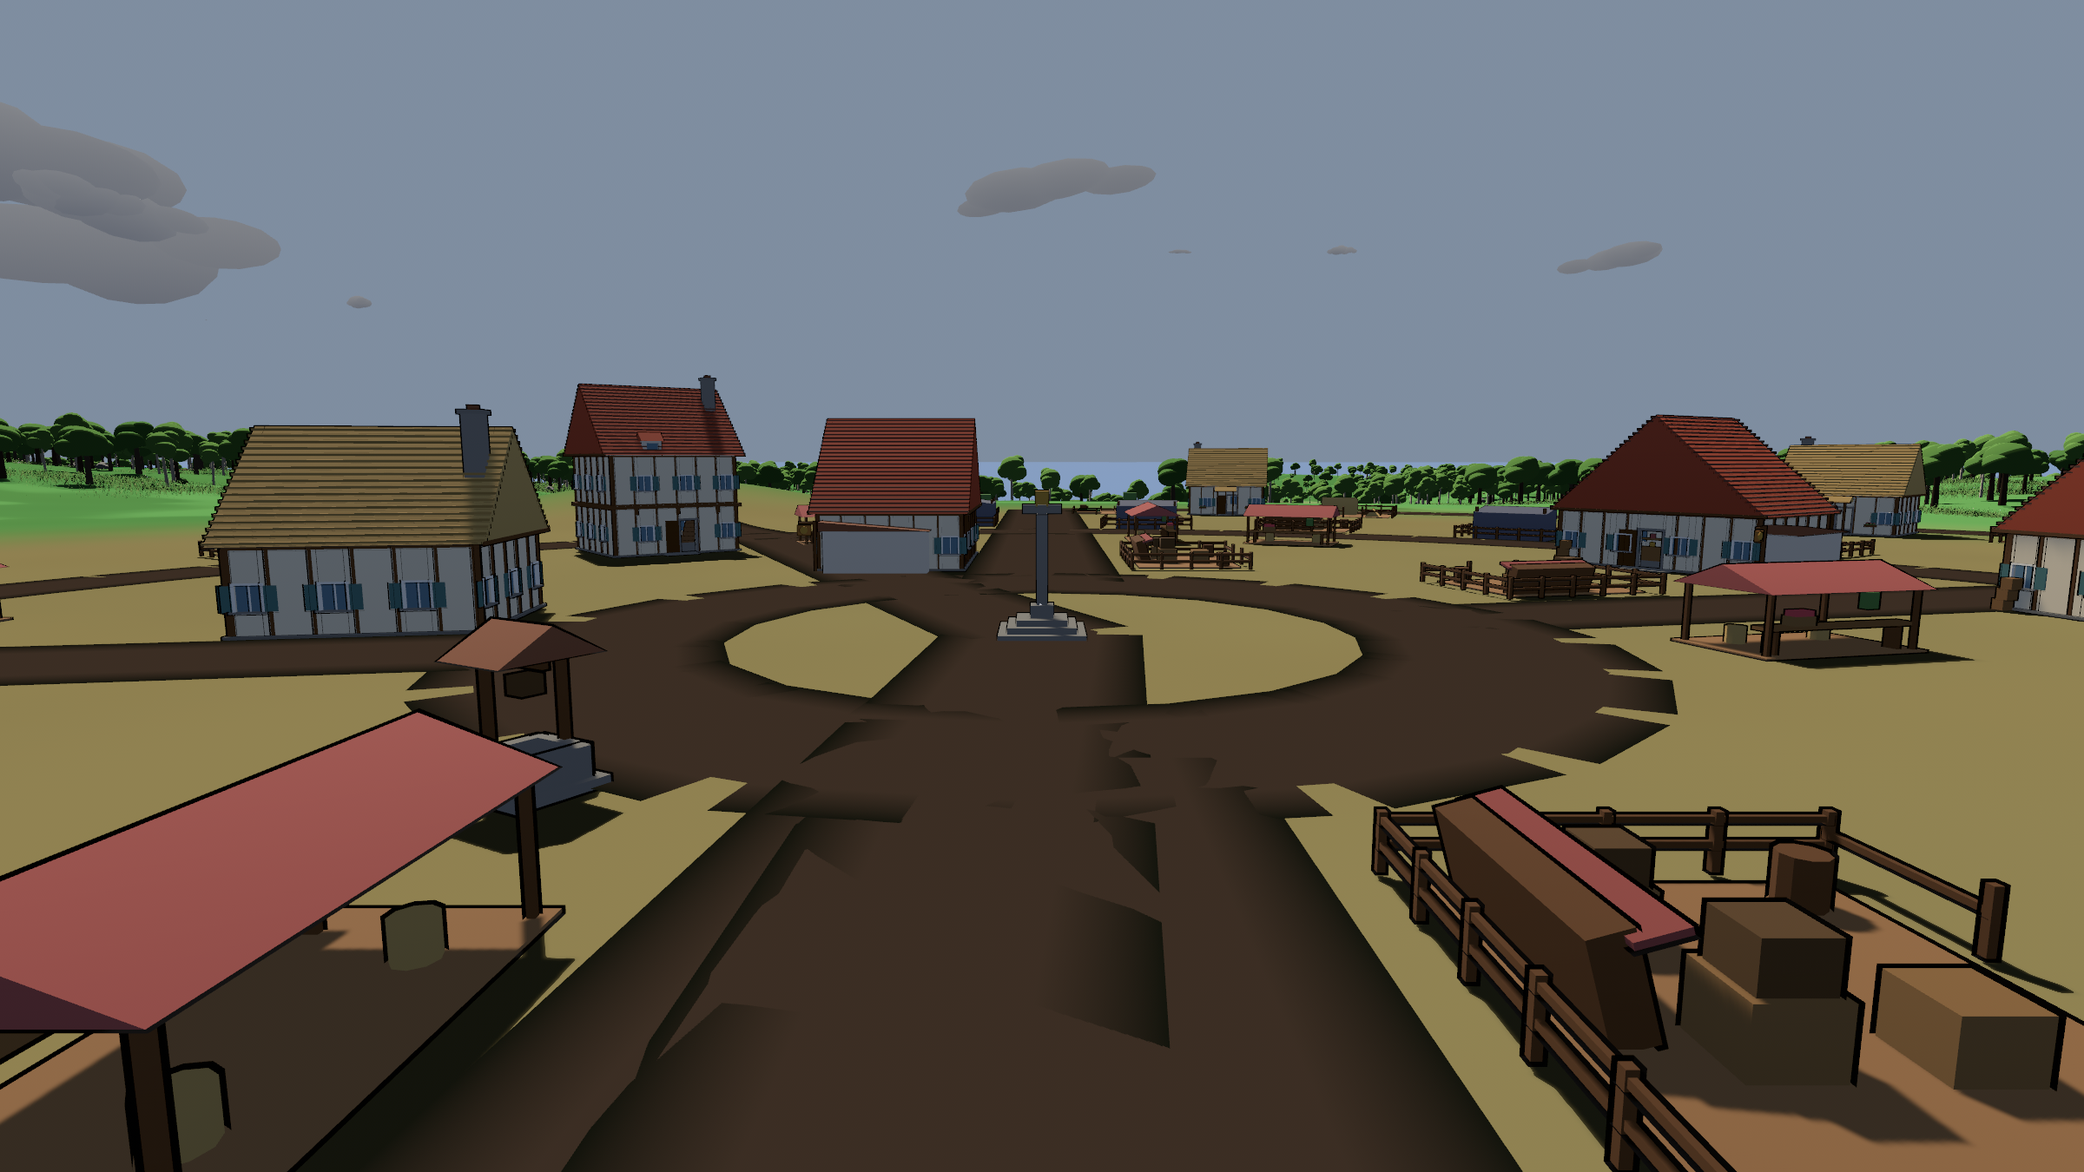
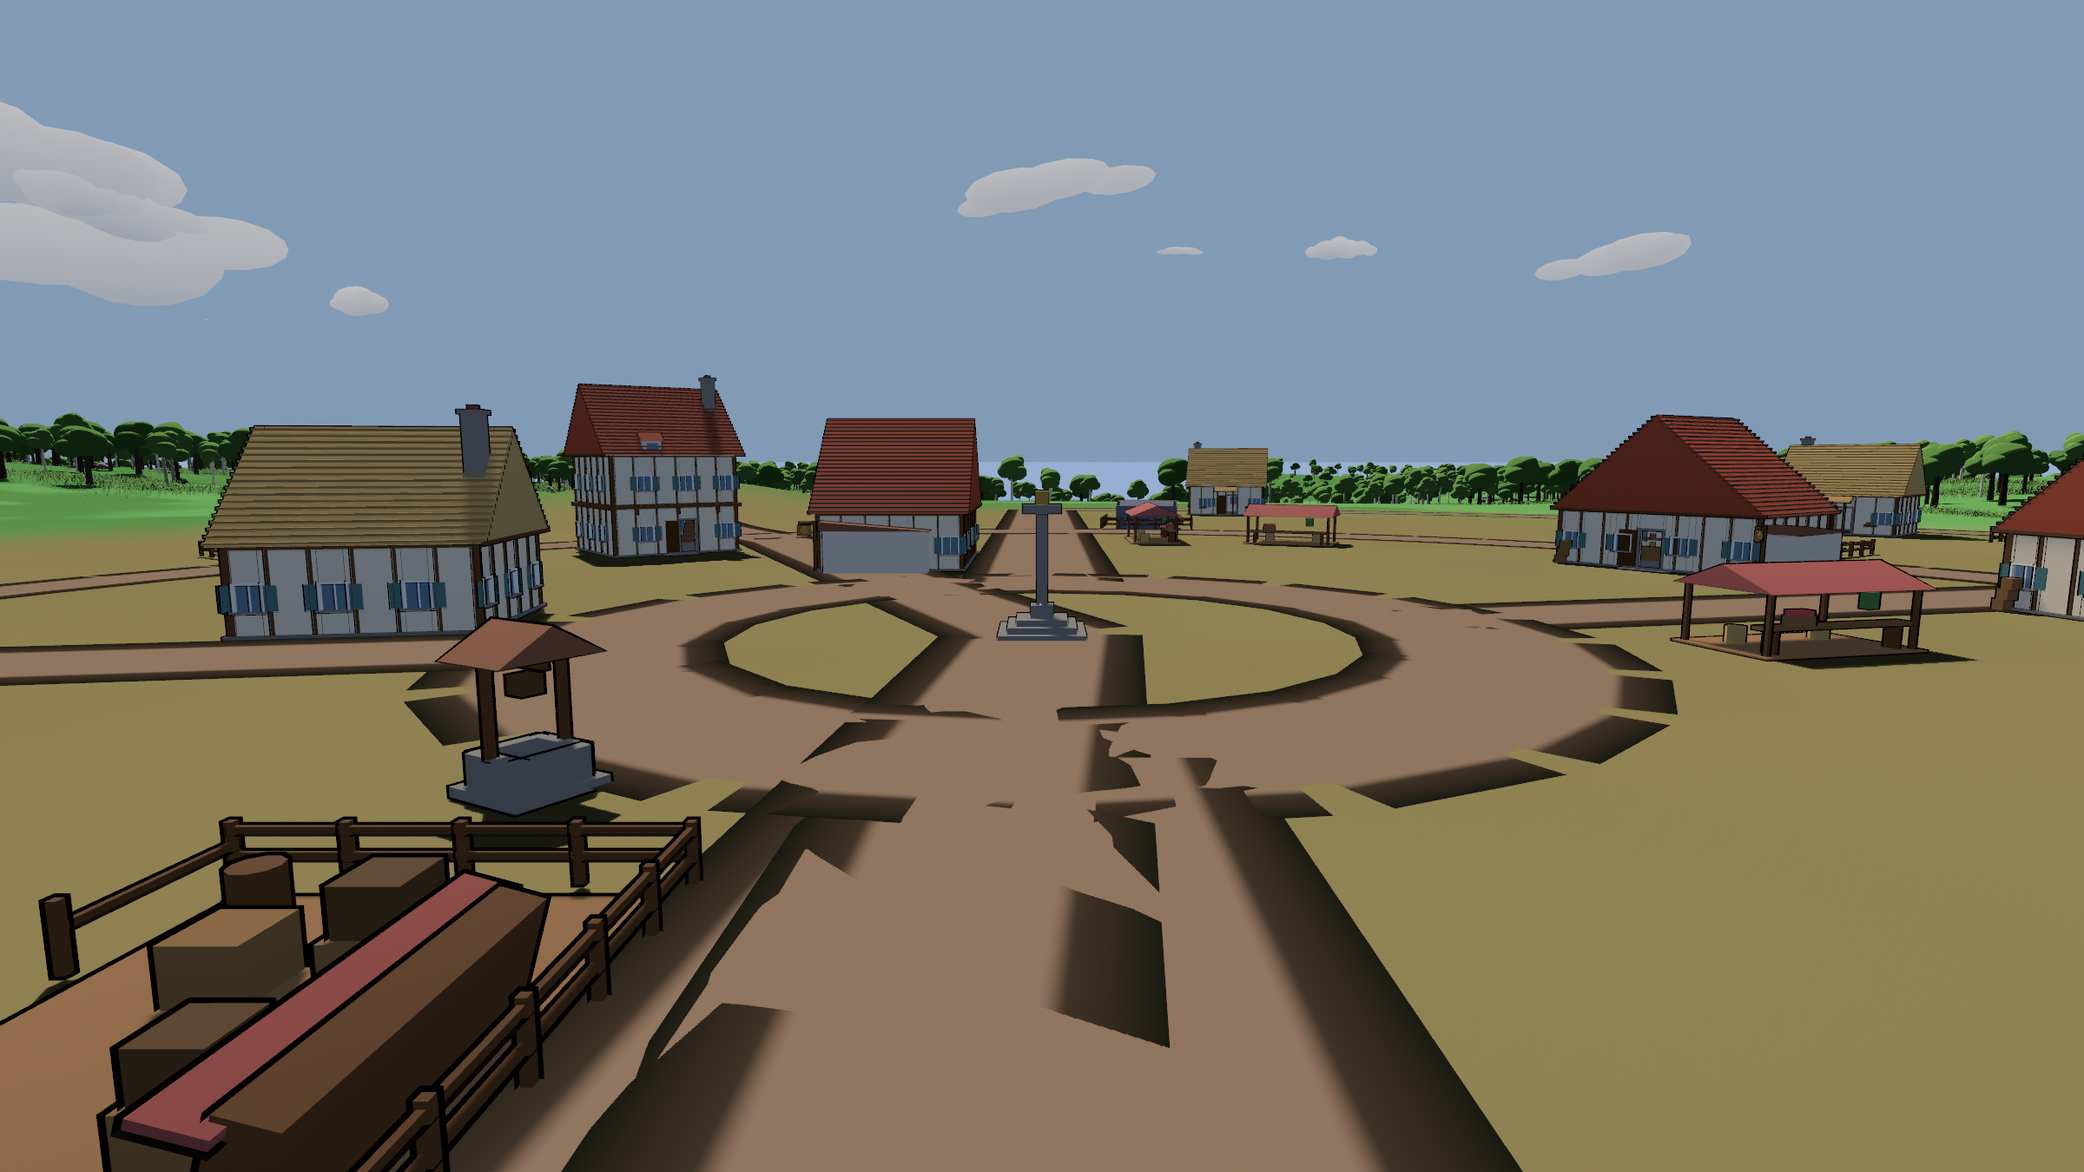
Bound the yards to a budget, and fence them
Codex's review, all six points, verified against the code before acting.

THE BUDGET. About seven in ten discarded lots became a yard, so a 16-house
village carried 48 of them and a 34-building city 94 - and that number came from
how many provisional lots the street generator happened to produce, not from
anything about the place. Upstream geometry yielding more candidates would have
multiplied the shipped scene with nothing saying so.

Each district now has a ratio against its own retained buildings: market 1.0,
crafts 0.7, outskirts 0.45. That is the frontage hierarchy the research asks for
and the thing one global share cannot say - a market street should be nearly
solid, an outskirt should give way to gardens and air. Taken by stride around the
ring rather than a clump off the front. A village goes from 64 scenes to 28 and a
city from 128 to 57, and no settlement may hold more yards than buildings.

FENCES. Yards had no collision at all, on the grounds that you walk into a
garden. True of the ground and false of the fence: a 1.9 m mesh screen you stroll
through reads as a hologram, and the pen, the work yard and the service bay are
defined by being enclosed. The enclosed programmes get their fence, with the
gateway left open where the model's gate is.

Three guards were counting yards as buildings. every_building_has_a_model_on_disk
listed the variants by hand and had silently stopped covering a third of the enum
[…]

diff --git a/src/world/town.rs b/src/world/town.rs
@@ -161,6 +161,20 @@ pub enum District {
 }
 
 impl District {
+    /// How much of its frontage this district occupies, as yards per building.
+    ///
+    /// The hierarchy the research asks for, and the thing a single global share
+    /// cannot say: a market street should be nearly solid, a crafts quarter busy but
+    /// broken by work yards, and the outskirts should give way to gardens and open
+    /// ground. Below one means more buildings than yards.
+    pub fn occupies(self) -> f32 {
+        match self {
+            District::Market => 1.0,
+            District::Crafts => 0.7,
+            District::Outskirts => 0.45,
+        }
+    }
+
     /// The district a place belongs to.
     ///
     /// By RING rather than by a smooth falloff, and that is the legibility lesson
@@ -384,6 +398,58 @@ impl Building {
     ///
     /// A landmark takes no lot and keeps no frontage: it stands in the open where
     /// people gather, which is what makes a node a node.
+    /// Every kind there is.
+    ///
+    /// Written once so a test cannot miss one. `every_building_has_a_model_on_disk`
+    /// used to list the variants by hand, and five yards were added to the enum
+    /// without being added to it - so the one guard that proves a `Building` names a
+    /// file that exists stopped covering a third of them, silently, which is the
+    /// only way that guard can fail.
+    pub const ALL: [Building; 19] = [
+        Building::Cottage,
+        Building::Townhouse,
+        Building::Shop,
+        Building::GuildHall,
+        Building::CityBlock,
+        Building::CityTower,
+        Building::CitySpire,
+        Building::MarketCross,
+        Building::Well,
+        Building::Monument,
+        Building::Garden,
+        Building::WorkYard,
+        Building::Pen,
+        Building::StoreYard,
+        Building::Stall,
+        Building::CityGreen,
+        Building::CityService,
+        Building::CityKiosk,
+        Building::CityForecourt,
+    ];
+
+    /// Whether a yard is enclosed, and how wide the way in is.
+    ///
+    /// # A fence you can walk through is scenery
+    ///
+    /// Yards started with no collision at all, on the grounds that you walk INTO a
+    /// garden. True of the ground and false of the fence around it: a 1.9 m mesh
+    /// screen you stroll through reads as a hologram, and the pen, the work yard and
+    /// the service bay are all defined by being enclosed.
+    ///
+    /// So the fenced programmes get their fence, with the gap at the front left
+    /// open - the same gap the model has, because that is where the gate is. The
+    /// open programmes - a stall, a kiosk, a planted square, a paved forecourt -
+    /// have nothing to walk into and get nothing.
+    pub fn fenced(self) -> Option<f32> {
+        match self {
+            Building::Garden => Some(3.06),
+            Building::WorkYard | Building::StoreYard => Some(3.06),
+            Building::Pen => Some(2.2),
+            Building::CityService => Some(3.4),
+            _ => None,
+        }
+    }
+
     /// Whether this is a yard rather than a building.
     ///
     /// A yard is ground with things standing on it - beds, a bench, a stack of
@@ -429,8 +495,14 @@ impl Building {
     /// programmes per district rather than one, so a run of lots does not repeat -
     /// and only two, because the point is that a garden next to a garden still reads
     /// as a neighbourhood while five unrelated props read as litter.
-    pub fn yard_for(district: District, city: bool, nth: usize) -> Building {
-        let other = nth % 2 == 1;
+    /// What a lot with no building on it is FOR.
+    ///
+    /// `roll` is a hash of the settlement's seed and the LOT's own identity, not its
+    /// position in a list. Taken from enumeration order, inserting or removing one
+    /// eligible lot earlier in the ring flipped the programme of every lot after it,
+    /// so a change anywhere rewrote the whole town.
+    pub fn yard_for(district: District, city: bool, roll: u32) -> Building {
+        let other = roll % 2 == 1;
         match (district, city) {
             // Trade, either way: a canvas stall on a village square, a steel and
             // glass kiosk on a city's.
@@ -1378,19 +1450,54 @@ pub fn lay_out(site: &Site, approach: Vec2, seed: u32) -> Layout {
         // they say the thing a wall does not: somebody lives here and does something
         // all day.
         //
-        // Not all of them. Some ground stays open, because a place where every
-        // square metre is used reads as a diagram of a place. `LOTS_LEFT_OPEN` is the
-        // share kept as breathing room, and it is deliberate rather than left over.
-        for (nth, index) in (0..plots.len())
-            .filter(|i| !taken.contains(i) && !keep_always.contains(i))
-            .enumerate()
-        {
-            if unit(seed.wrapping_add(index as u32 * 613), 41) < LOTS_LEFT_OPEN {
+        // TO A BUDGET, and the budget is the buildings.
+        //
+        // The first cut turned about seven in ten of every discarded lot into a yard.
+        // That makes the size of a settlement depend on how many provisional lots the
+        // street generator happened to produce rather than on what the place IS: a
+        // sixteen-house village came out with forty-eight yards and a thirty-four
+        // building city with ninety-four, and a change upstream that yielded more
+        // candidate lots would have multiplied both without anything saying so.
+        //
+        // How much frontage a district occupies is a property OF the district, which
+        // one global share cannot express - a market street is meant to be nearly
+        // solid and an outskirt is meant to break into gardens and air. So each
+        // district gets a ratio against its own retained buildings, and takes that
+        // many by stride around the ring rather than a clump off the front.
+        let built: Vec<Plot> = kept.clone();
+        for district in [District::Market, District::Crafts, District::Outskirts] {
+            let free: Vec<usize> = (0..plots.len())
+                .filter(|i| {
+                    !taken.contains(i)
+                        && !keep_always.contains(i)
+                        && plots[*i].district == district
+                })
+                .collect();
+            if free.is_empty() {
                 continue;
             }
-            let mut yard = plots[index];
-            yard.what = Building::yard_for(yard.district, site.city, nth);
-            kept.push(yard);
+            let houses = built
+                .iter()
+                .filter(|plot| plot.district == district && !plot.what.is_yard())
+                .count();
+            let want = ((houses as f32 * district.occupies()).round() as usize).min(free.len());
+            if want == 0 {
+                continue;
+            }
+            let stride = (free.len() as f32 / want as f32).max(1.0);
+            for step in 0..want {
+                let at = (step as f32 * stride).round() as usize;
+                let Some(index) = free.get(at) else { continue };
+                let mut yard = plots[*index];
+                // Hashed from where the lot IS, so a change to one lot cannot move
+                // the programme of any other.
+                let roll = (unit(
+                    seed.wrapping_add(yard.at.x.to_bits() ^ yard.at.y.to_bits()),
+                    97,
+                ) * 1_000.0) as u32;
+                yard.what = Building::yard_for(yard.district, site.city, roll);
+                kept.push(yard);
+            }
         }
         plots = kept;
     }
@@ -1707,13 +1814,6 @@ fn mix_the_road_surface(mut commands: Commands, mut materials: ResMut<Assets<cra
     }));
     commands.insert_resource(RoadSurface(surface));
 }
-
-/// The share of unbuilt lots left as open ground.
-///
-/// Deliberate breathing room rather than what was left over. A place where every
-/// square metre is in use reads as a diagram of a place, and the gaps are what make
-/// the used ground read as used.
-const LOTS_LEFT_OPEN: f32 = 0.28;
 
 /// How much room the guild hall is given, in metres.
 ///
@@ -2056,12 +2156,20 @@ pub fn raise_the_towns(
         }
 
         let layout = lay_out(site, plan.approach(site.at), WORLD_SEED.wrapping_add(key * 7717));
+        // What this settlement actually cost, per settlement.
+        //
+        // Codex's invariant: adding more provisional lot candidates must not silently
+        // multiply the shipped scene. It cannot be read off "N buildings" - that was
+        // the number that quietly went from sixteen to sixty-four - so the split is
+        // printed and the budget is visible from the log.
+        let yards = layout.plots.iter().filter(|p| p.what.is_yard()).count();
         info!(
-            "raising {} at ({:.0}, {:.0}): {} buildings",
+            "raising {} at ({:.0}, {:.0}): {} buildings, {yards} yards, {} scenes",
             if site.city { "a city" } else { "a town" },
             site.at.x,
             site.at.y,
-            layout.plots.len()
+            layout.plots.len() - yards,
+            layout.plots.len(),
         );
         for plot in &layout.plots {
             // On the GROUND's own height wherever it lands, not on the site's
@@ -2121,9 +2229,35 @@ impl Plot {
     /// The front wall comes in two pieces with the doorway between them, which is
     /// what makes the building enterable. Everything else is one slab a side.
     pub fn walls(&self) -> Vec<(Vec2, Vec2, f32)> {
-        // A yard is walked into, not entered. Nothing here to refuse a step.
+        // A yard's FENCE, if it has one, with the gateway left open.
         if self.what.is_yard() {
-            return Vec::new();
+            let Some(gate) = self.what.fenced() else {
+                return Vec::new();
+            };
+            let half = self.what.footprint() * 0.5;
+            let (sin, cos) = self.facing.sin_cos();
+            let out = |local: Vec2| {
+                self.at + Vec2::new(local.x * cos - local.y * sin, local.x * sin + local.y * cos)
+            };
+            let thick = 0.18;
+            let mut fence = vec![
+                // The back run and both flanks.
+                (out(Vec2::new(0.0, half.y)), Vec2::new(half.x, thick), self.facing),
+                (out(Vec2::new(-half.x, 0.0)), Vec2::new(thick, half.y), self.facing),
+                (out(Vec2::new(half.x, 0.0)), Vec2::new(thick, half.y), self.facing),
+            ];
+            // And the front, in two pieces with the gateway between them.
+            let stub = (half.x - gate * 0.5).max(0.0);
+            if stub > 0.05 {
+                for side in [-1.0_f32, 1.0] {
+                    fence.push((
+                        out(Vec2::new(side * (half.x - stub * 0.5), -half.y)),
+                        Vec2::new(stub * 0.5, thick),
+                        self.facing,
+                    ));
+                }
+            }
+            return fence;
         }
         let half = self.what.footprint() * 0.5;
         let (sin, cos) = self.facing.sin_cos();
@@ -2751,9 +2885,12 @@ mod tests {
 
         // Every district has to exist at all.
         for district in [District::Market, District::Crafts, District::Outskirts] {
+            // Buildings, matching the assertion's own words. Counting yards too
+            // would let a district exist on gardens alone, which is not a district
+            // with buildings in it - and the message would still say it was.
             let here: usize = counts
                 .iter()
-                .filter(|((d, _), _)| *d == district)
+                .filter(|((d, w), _)| *d == district && !w.is_yard())
                 .map(|(_, n)| *n)
                 .sum();
             assert!(here > 3, "{district:?} has {here} buildings in it");
@@ -2960,18 +3097,11 @@ mod tests {
     #[test]
     fn every_building_has_a_model_on_disk() {
         let root = std::path::Path::new(env!("CARGO_MANIFEST_DIR")).join("assets");
-        for what in [
-            Building::Cottage,
-            Building::Townhouse,
-            Building::Shop,
-            Building::GuildHall,
-            Building::CityBlock,
-            Building::CityTower,
-            Building::CitySpire,
-            Building::MarketCross,
-            Building::Well,
-            Building::Monument,
-        ] {
+        // EVERY kind, from the one list - see `Building::ALL`. Written out by hand
+        // here once, and five yards were added to the enum without being added to
+        // it, so the guard that proves a `Building` names a file that exists quietly
+        // stopped covering a third of them.
+        for what in Building::ALL {
             let path = root.join(what.model());
             assert!(
                 path.exists(),
@@ -3140,17 +3270,36 @@ mod tests {
         // on a city containing one house.
         for seed in 0..30 {
             let city = lay_out(&a_site(true, 90.0), Vec2::new(0.8, 0.6).normalize(), seed);
+            // BUILDINGS, not everything standing. Yards went into `plots` and
+            // straight into this count, so a settlement whose houses had collapsed
+            // toward zero could still sail through on the strength of its gardens -
+            // which is exactly the vacuous pass this test exists to prevent.
+            let houses = |layout: &Layout| {
+                layout.plots.iter().filter(|p| !p.what.is_yard()).count()
+            };
             assert!(
-                city.plots.len() >= 18,
+                houses(&city) >= 18,
                 "seed {seed}: a city has {} buildings in it",
-                city.plots.len()
+                houses(&city)
             );
             let village = lay_out(&a_site(false, 58.0), Vec2::new(0.3, -0.95).normalize(), seed);
             assert!(
-                village.plots.len() >= 6,
+                houses(&village) >= 6,
                 "seed {seed}: a village has {} buildings in it",
-                village.plots.len()
+                houses(&village)
             );
+
+            // And the yards are BOUNDED by them, which is the whole point of the
+            // budget: the size of a settlement is a property of the settlement, not
+            // of how many provisional lots the street generator happened to make.
+            for (what, layout) in [("city", &city), ("village", &village)] {
+                let yards = layout.plots.iter().filter(|p| p.what.is_yard()).count();
+                let built = houses(layout);
+                assert!(
+                    yards <= built,
+                    "seed {seed}: a {what} has {yards} yards to {built} buildings - the yards are running away with it",
+                );
+            }
         }
     }
 

diff --git a/codex-suggestions/CLAUDE_REPLY.md b/codex-suggestions/CLAUDE_REPLY.md
@@ -195,6 +195,53 @@ Per item:
   steel-and-glass kiosk. Growing things is a kitchen garden and a pen, or a kerbed
   square with the hedge clipped flat. Nine figures, one palette, one ink.
 
+### 2026-08-29 — CODEX_REVIEW 1359, the yard layer
+
+All six points held up against the code. Fixed.
+
+- **The budget (the highest-risk one).** Right, and worse than the estimate: about
+  seven in ten discarded lots became a yard, so a 16-house village carried 48 of them
+  and a 34-building city 94 - and the number came from how many provisional lots the
+  street generator happened to make, not from anything about the place. Each district
+  now has a ratio against its OWN retained buildings - market 1.0, crafts 0.7,
+  outskirts 0.45 - which is the frontage hierarchy a single global share could not
+  express. Taken by stride around the ring, not a clump off the front. Village 64 to
+  **28 scenes**, city 128 to **57**. Guarded: a settlement may not hold more yards
+  than buildings.
+- **`every_building_has_a_model_on_disk` missed the yards.** Right, and it is the one
+  guard that proves a `Building` names a file that exists - so a third of the enum had
+  quietly stopped being covered. There is a `Building::ALL` now and the test walks it,
+  so the next variant cannot evade it.
+- **`a_town_actually_has_a_town_in_it` counted yards.** Right - a settlement whose
+  houses collapsed toward zero could have passed on gardens, which is the exact
+  vacuous pass that test exists to prevent. It counts `!is_yard()`.
+- **`here > 3` counted yards.** Same fix: a district cannot exist on gardens alone,
+  and the message said "buildings" while the count did not.
+- **Ghosted fences.** Right, and it would have shown at head height: a 1.9 m mesh
+  screen you stroll through reads as a hologram. The enclosed programmes now get their
+  fence as collision - three sides and two front stubs, with the gateway left open
+  where the model's gate is. The open ones - stall, kiosk, planted square, forecourt -
+  still have nothing to walk into and get nothing.
+- **`nth` coupled every yard to enumeration order.** Right. It is a hash of the seed
+  and the lot's own position now, so a change to one lot cannot move the programme of
+  another.
+- **Evidence per settlement:** the log prints buildings, yards and scenes separately.
+  The number that went quietly from 16 to 64 was the one being printed.
+
+The city/village split you recommend was already in flight and is committed - nine
+figures, both families, in `9e579de`.
+
+### 2026-08-29 — Canyon visual pass (CODEX_REVIEW 1359)
+
+- **Status:** accepted, not started
+- All three readings match what I see: the east mouth collapses to a black field even
+  at fixed noon, the interior reads as a broad grey arena rather than a guided
+  passage, and the west mouth's opening is not the first thing you see. The four
+  suggestions - a floor value family distinct from the walls, sparse scale beats at
+  bends, a guaranteed light portal at each exit, and rim-first ink rather than lines
+  on every triangle - are the right list. Paired looking-in/looking-out shots go in
+  with it.
+
 ### 2026-08-29 — V2, V7 and G1–G4
 
 - **Status:** deferred, pending the user's direction
